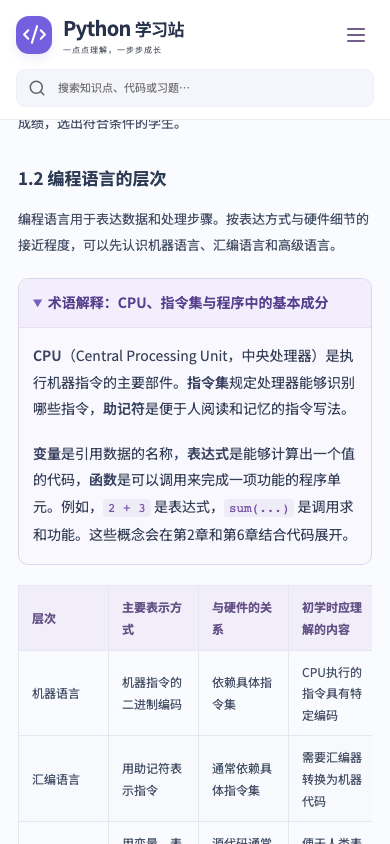
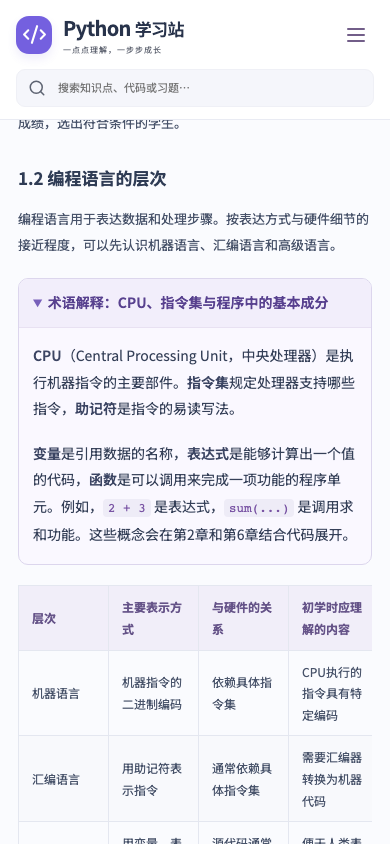
Keep learning-note markup out of search previews

Changed region(s): [[0.0923, 0.4313, 0.9231, 0.4929]]

diff --git a/src/main.tsx b/src/main.tsx
@@ -20,6 +20,11 @@ const route=()=>location.hash.slice(1)||'/';
 const link=(chapter:number,section='intro')=>`#/chapter/${chapter}/${section}`;
 const sectionKey=(chapter:number,section:string)=>`ch${chapter}-${section}`;
 function sample<T>(items:T[],n:number){const a=[...items];for(let i=a.length-1;i>0;i--){const j=Math.floor(Math.random()*(i+1));[a[i],a[j]]=[a[j],a[i]]}return a.slice(0,n)}
+function searchSnippet(text:string,term:string){
+ const plain=text.replace(/<\/?(?:details|summary)>/g,' ').replace(/\[([^\]]+)\]\([^)]+\)/g,'$1').replace(/[#*`]/g,'');
+ const start=Math.max(0,plain.toLowerCase().indexOf(term)-28);
+ return plain.slice(start,start+110);
+}
 function App(){
  const [path,setPath]=useState(route),[progress,setProgress]=useState(readProgress),[menu,setMenu]=useState(false),[query,setQuery]=useState(''),[storageError,setStorageError]=useState(false);
  useEffect(()=>{const f=()=>{setPath(route());setMenu(false);setQuery('');window.scrollTo(0,0)};window.addEventListener('hashchange',f);return()=>window.removeEventListener('hashchange',f)},[]);
@@ -32,7 +37,7 @@ function App(){
  function answer(q:Question,selected:string){setProgress(p=>{const prev=p.answers[q.id];return {...p,answers:{...p.answers,[q.id]:{selected,correct:selected===q.answer,attempts:(prev?.attempts||0)+1,correctAttempts:(prev?.correctAttempts||0)+(selected===q.answer?1:0)}}}})}
  const searchTerm=query.trim().toLocaleLowerCase();
  const results=searchTerm?[...chapters.flatMap(c=>c.sections.filter(s=>(s.title+'\n'+s.markdown).toLowerCase().includes(searchTerm)).map(s=>({title:`第 ${c.id} 章 · ${s.title}`,url:link(c.id,s.id),text:s.markdown}))),...questions.filter(q=>(q.prompt+q.options.map(o=>o.markdown).join(' ')+q.explanation).toLowerCase().includes(searchTerm)).map(q=>({title:`第 ${q.chapter} 章 · 第 ${q.number} 题`,url:`#/practice/question/${q.id}`,text:q.prompt}))]:[];
- return <><a className="skip-link" href="#main-content" onClick={e=>{e.preventDefault();document.getElementById('main-content')?.focus()}}>跳到正文</a><header className="topbar"><a className="brand" href="#/"><span className="brand-icon"><Code2 size={25}/></span><span>Python <b>学习站</b><small>一点点理解，一步步成长</small></span></a><div className="search-wrap"><Search size={18}/><input aria-label="搜索全部笔记与习题" placeholder="搜索知识点、代码或习题…" value={query} onChange={e=>setQuery(e.target.value)} onKeyDown={e=>{if(e.key==='Escape')setQuery('')}}/>{query&&<button aria-label="清空搜索" onClick={()=>setQuery('')}><X size={16}/></button>}{searchTerm&&<div className="search-results"><div className="search-caption">找到 {results.length} 项内容</div>{results.map(r=><a key={r.url} href={r.url} onClick={()=>setQuery('')}><strong>{r.title}</strong><span>{r.text.slice(Math.max(0,r.text.toLowerCase().indexOf(searchTerm)-28),Math.max(0,r.text.toLowerCase().indexOf(searchTerm)-28)+110).replace(/[#*`]/g,'')}</span></a>)}{!results.length&&<p>换一个关键词试试，例如「切片」「递归」。</p>}</div>}</div><a className="top-lab" href="#/lab"><FlaskConical size={17}/>互动实验室</a><button className="menu-button" aria-label="展开目录" aria-expanded={menu} onClick={()=>setMenu(!menu)}>{menu?<X/>:<Menu/>}</button></header>
+ return <><a className="skip-link" href="#main-content" onClick={e=>{e.preventDefault();document.getElementById('main-content')?.focus()}}>跳到正文</a><header className="topbar"><a className="brand" href="#/"><span className="brand-icon"><Code2 size={25}/></span><span>Python <b>学习站</b><small>一点点理解，一步步成长</small></span></a><div className="search-wrap"><Search size={18}/><input aria-label="搜索全部笔记与习题" placeholder="搜索知识点、代码或习题…" value={query} onChange={e=>setQuery(e.target.value)} onKeyDown={e=>{if(e.key==='Escape')setQuery('')}}/>{query&&<button aria-label="清空搜索" onClick={()=>setQuery('')}><X size={16}/></button>}{searchTerm&&<div className="search-results"><div className="search-caption">找到 {results.length} 项内容</div>{results.map(r=><a key={r.url} href={r.url} onClick={()=>setQuery('')}><strong>{r.title}</strong><span>{searchSnippet(r.text,searchTerm)}</span></a>)}{!results.length&&<p>换一个关键词试试，例如「切片」「递归」。</p>}</div>}</div><a className="top-lab" href="#/lab"><FlaskConical size={17}/>互动实验室</a><button className="menu-button" aria-label="展开目录" aria-expanded={menu} onClick={()=>setMenu(!menu)}>{menu?<X/>:<Menu/>}</button></header>
  <div className="app-layout"><aside className={`sidebar ${menu?'is-open':''}`}><div className="nav-label">我的学习空间</div><a className={path==='/'?'nav-link active':'nav-link'} href="#/"><Home size={18}/>学习概览</a><a className={path.startsWith('/practice')?'nav-link active':'nav-link'} href="#/practice"><Target size={18}/>习题练习<span>140</span></a><a className="nav-link" href="#/practice/wrong"><Bookmark size={18}/>错题本<span>{wrong.length}</span></a><a className={path==='/lab'?'nav-link active':'nav-link'} href="#/lab"><FlaskConical size={18}/>互动实验室</a><div className="nav-label chapter-label">课程目录 <span>7 章</span></div><nav aria-label="课程目录">{chapters.map(c=><div key={c.id}><a className={`chapter-nav ${path.startsWith('/chapter/')&&chapter?.id===c.id?'selected':''}`} href={link(c.id)} style={{'--chapter-color':c.color} as React.CSSProperties}><span className="chapter-number">{String(c.id).padStart(2,'0')}</span><span>{c.title}</span>{c.sections.every(s=>progress.completed.includes(sectionKey(c.id,s.id)))&&<Check size={14}/>}</a>{path.startsWith('/chapter/')&&chapter?.id===c.id&&<div className="section-nav">{c.sections.map(s=><a href={link(c.id,s.id)} className={s.id===section?.id?'current':''} key={s.id}>{progress.completed.includes(sectionKey(c.id,s.id))?<Check size={12}/>:<i/>}{s.title}</a>)}</div>}</div>)}</nav><div className="sidebar-note"><span className="online-dot"/>你的学习，由你掌握<p>无需安装 Python<br/>进度保存在当前浏览器</p></div></aside><main id="main-content" tabIndex={-1}>
  {storageError&&<p className="notice" role="alert">浏览器暂时无法保存进度。当前页面仍可学习，请检查存储空间或隐私设置。</p>}
  {path==='/'?<><div className="home-heading"><div className="eyebrow"><span/> HELLO, PYTHON!</div><h1>从好奇出发，<br/>让想法<span className="colored-text">变成代码。</span></h1><p>七章知识，一百四十次思考。读懂、动手、再试一次，<br className="desktop-break"/>在每一个小小的发现里，遇见编程的乐趣。</p><a className="button primary" href={progress.lastRead?link(progress.lastRead.chapter,progress.lastRead.section):link(1)}>{progress.lastRead?'继续上次学习':'开始第一章'}<ArrowRight size={17}/></a><div className="hero-art" aria-hidden="true"><div className="orbit orbit-one"/><div className="orbit orbit-two"/><span className="art-spark">✦</span><div className="floating-tag tag-top"><span/> 灵感，正在运行</div><div className="hero-terminal"><div className="terminal-top"><i/><i/><i/><span>hello_world.py</span></div><code><span className="code-purple">def</span> <span className="code-yellow">learn</span>():<br/>&nbsp;&nbsp;curiosity = <span className="code-green">True</span><br/>&nbsp;&nbsp;<span className="code-purple">while</span> curiosity:<br/>&nbsp;&nbsp;&nbsp;&nbsp;explore()<br/>&nbsp;&nbsp;&nbsp;&nbsp;create()<br/><br/><span className="code-muted"># 每一步，都算数 ✨</span></code></div><div className="floating-tag tag-bottom"><Check size={16}/> 今天，也进步一点点</div><div className="art-braces">{'{ }'}</div></div></div>
